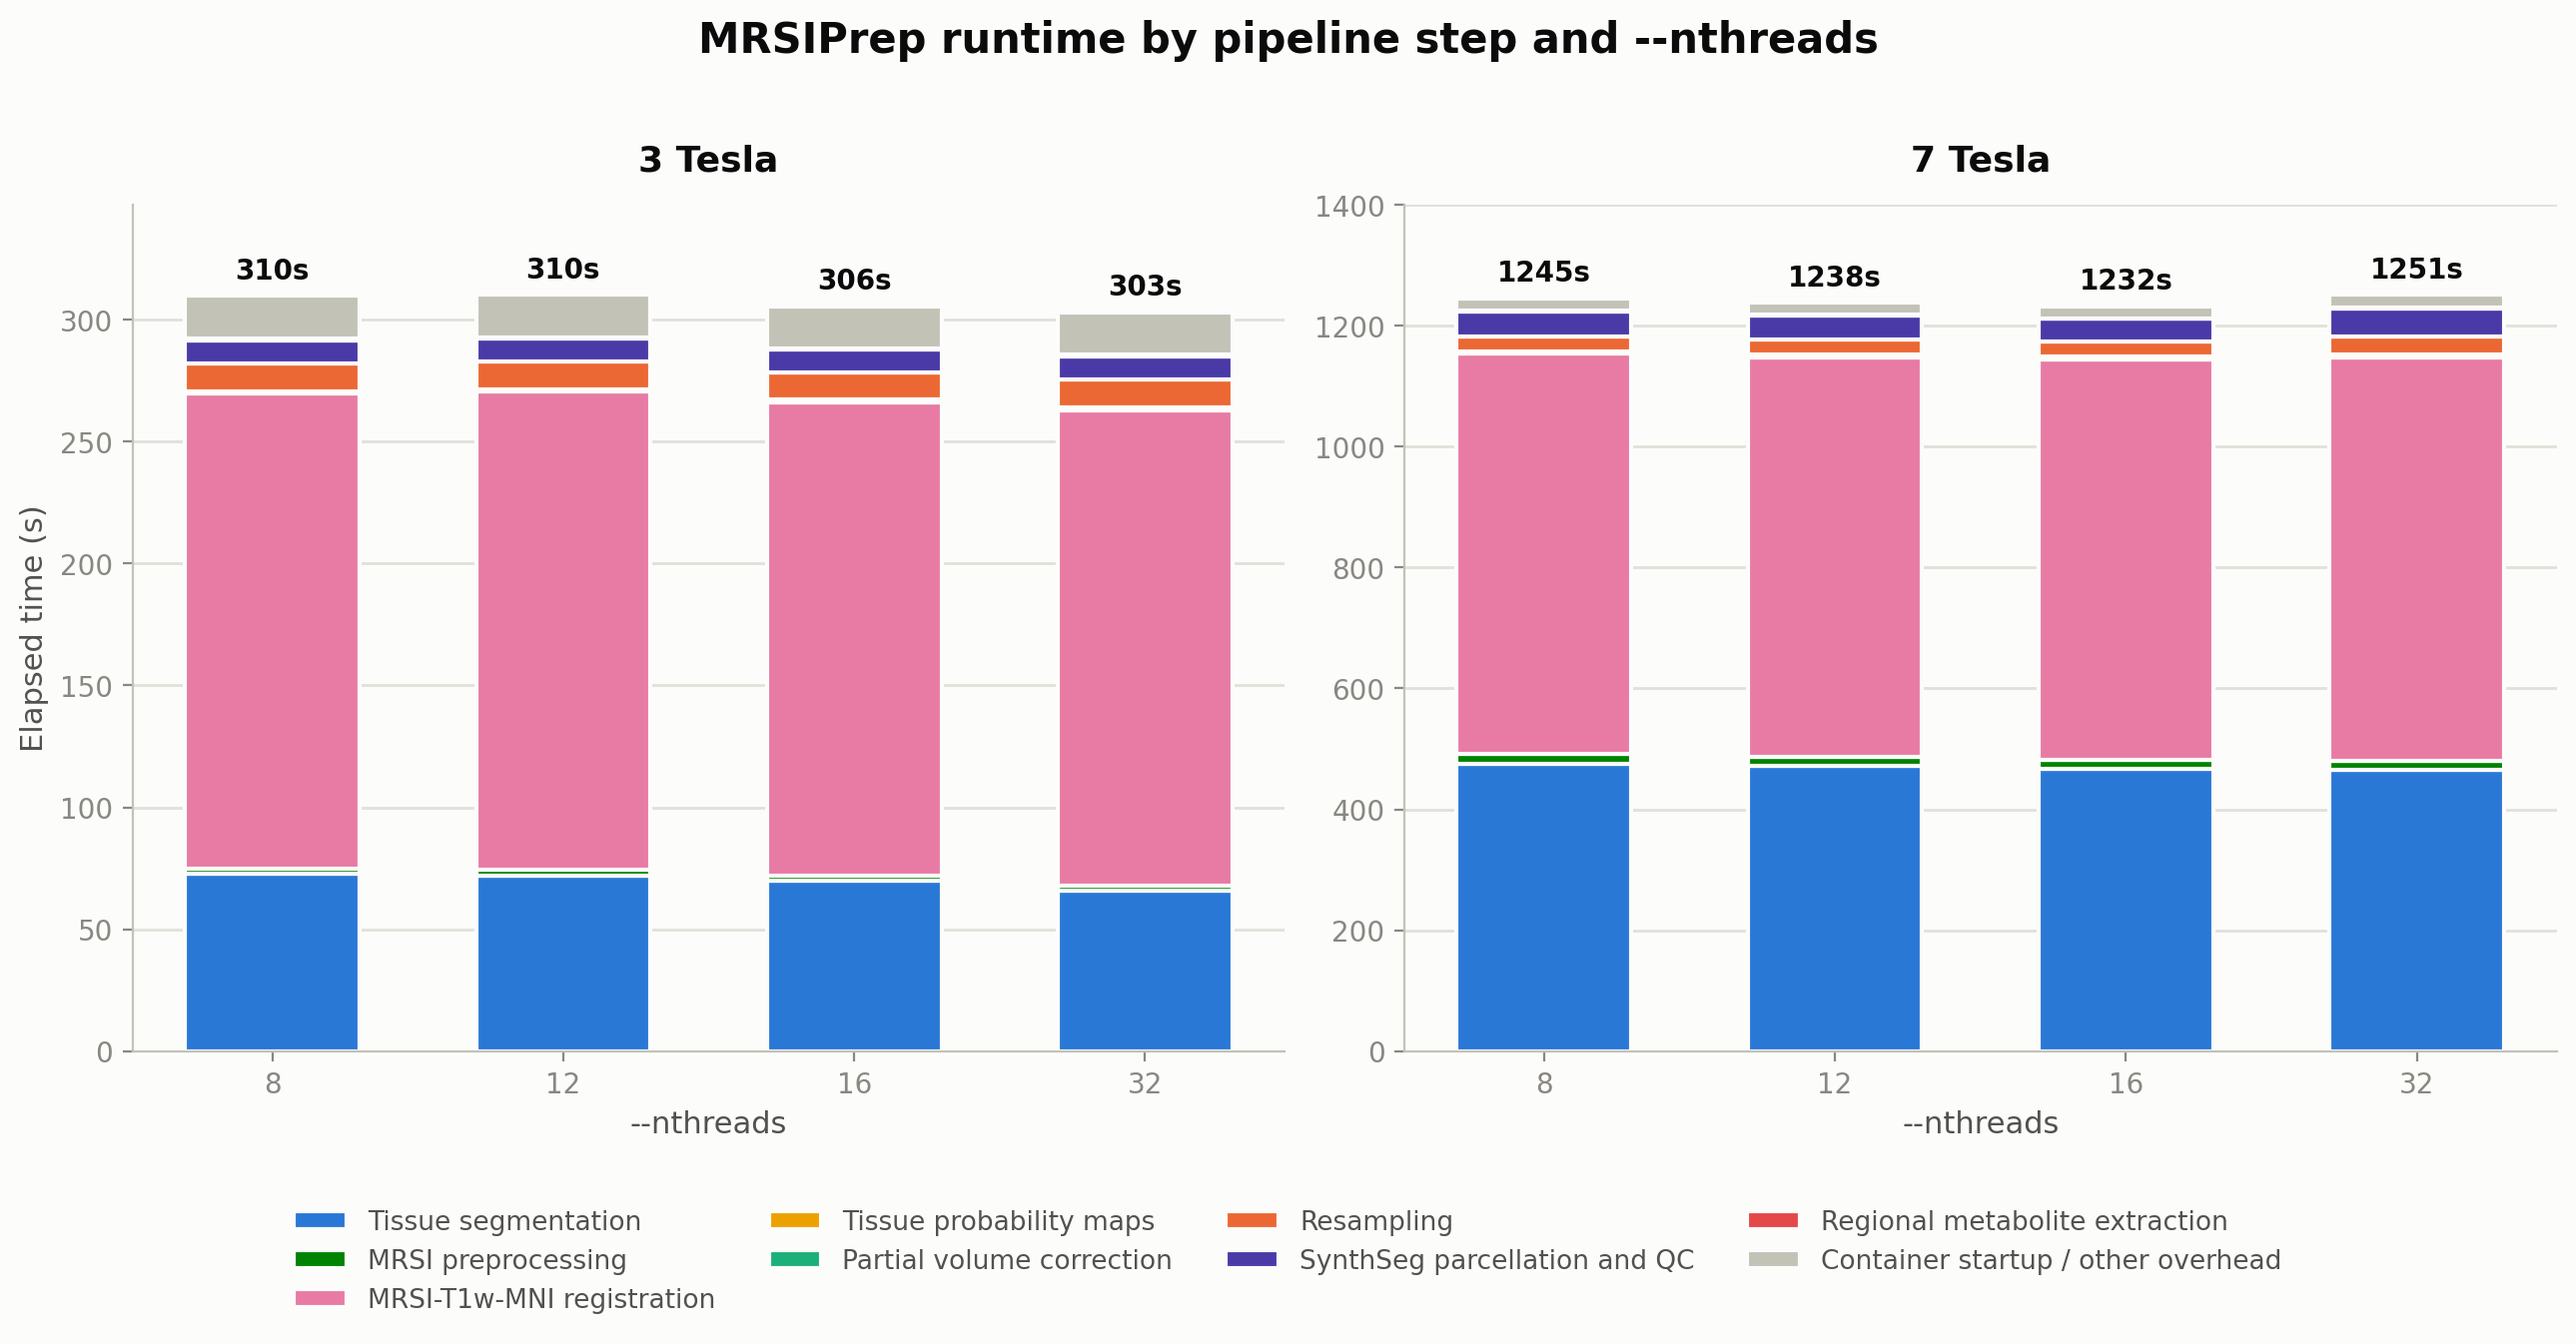
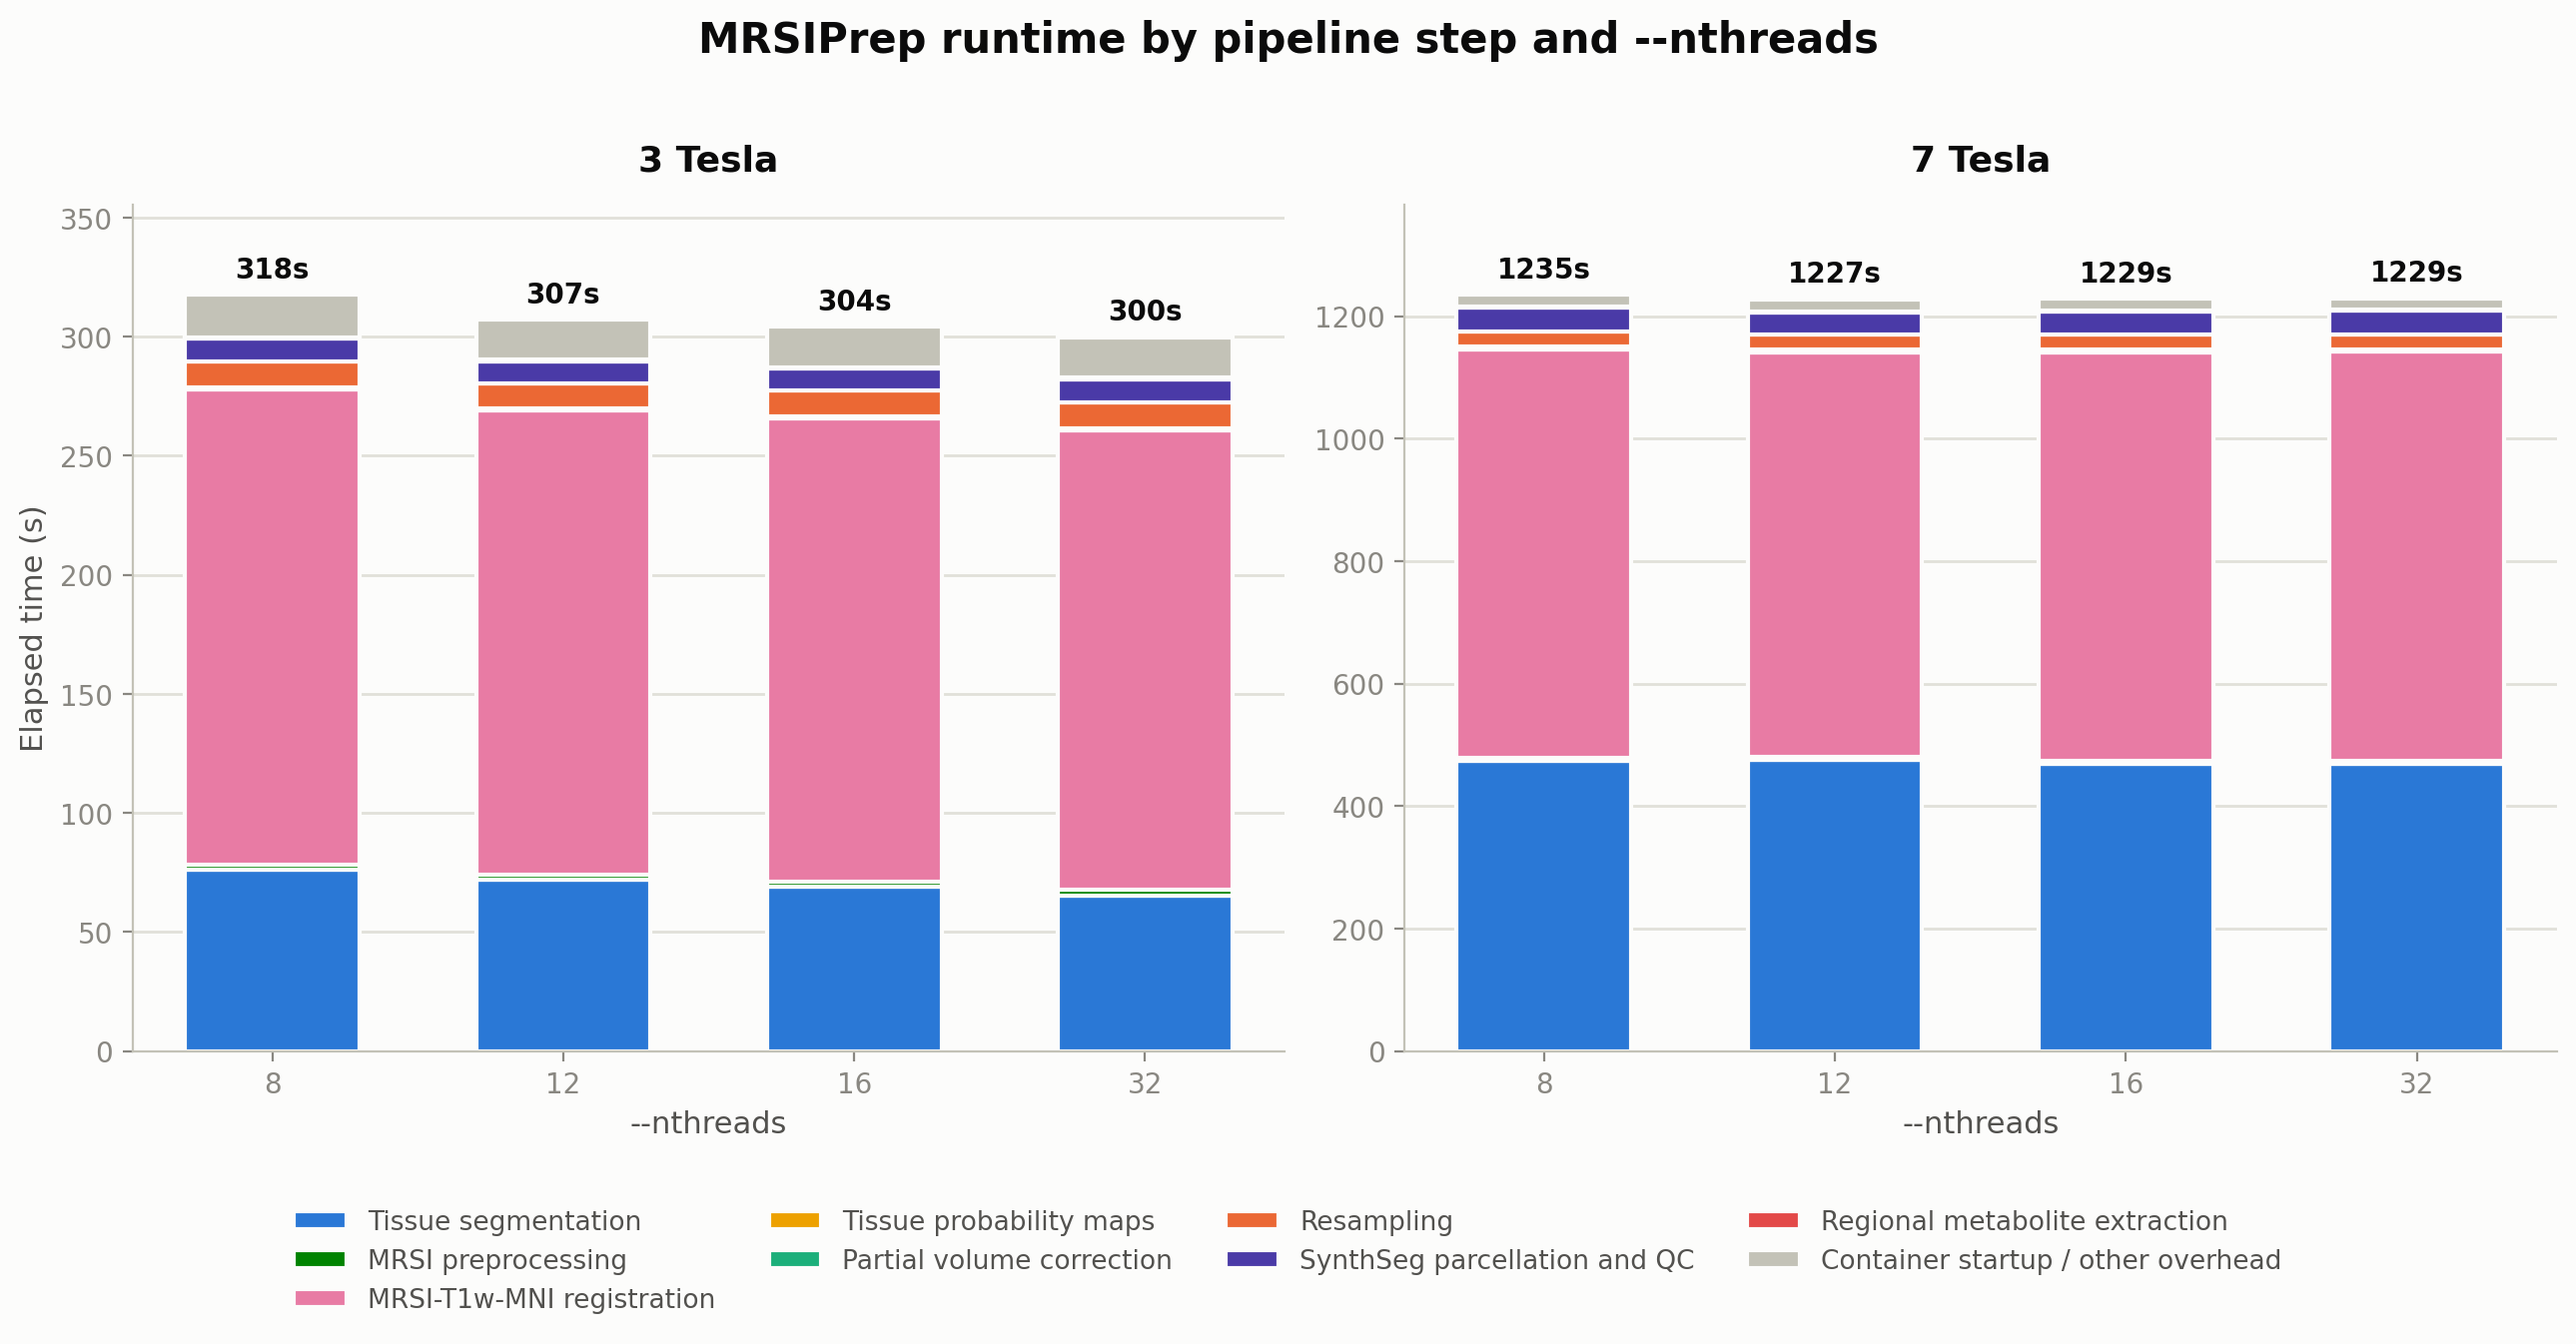
Rerun nthreads scaling benchmark sequentially, in isolation
Prior run's numbers may have been affected by concurrent load on a
shared machine. Rerunning all 8 configurations one at a time confirms
runtime is essentially flat across the 8-32 thread range at both field
strengths (3T ~6% spread, 7T under 1% spread). Bump to v1.5.8.

diff --git a/docs/benchmarks.md b/docs/benchmarks.md
@@ -80,7 +80,10 @@ Two single-subject `mrsiprep` runs, one per dataset, repeated at
 run, so `--nthreads` is the only varying parameter). Each run used a
 **fresh `--work-dir`** (no Nipype caching carried over between
 thread-count variants), so every number below reflects genuine
-full-pipeline computation, not a partially cached rerun.
+full-pipeline computation, not a partially cached rerun. All 8 runs (2
+subjects × 4 thread counts) were executed **strictly sequentially, one at
+a time**, with no other run or concurrent load on the machine, to rule
+out cross-run resource contention affecting the timings.
 
 - **3 Tesla subject** — a real MRSI acquisition with an MP2RAGE anatomical.
 - **7 Tesla subject** — a real MRSI acquisition with an MP2RAGE
@@ -116,9 +119,9 @@ which aren't wrapped in a named, timed pipeline step.
 
 ## Interpretation
 
-* **Runtime is nearly unchanged from 8 to 32 threads** for both subjects, with variations of only ~2%. ANTs registration and SynthSeg show little scaling beyond ~8 threads, so for batch processing it is generally better to use ~8–12 threads per subject and increase `--nproc` rather than allocate more threads to each subject.
+* **Runtime is essentially flat from 8 to 32 threads** for both subjects when each run is isolated from other load: 3T ranges 300–318s (~6% spread) and 7T ranges 1227–1235s (under 1% spread), with no consistent downward trend past 8 threads. ANTs registration (the largest single segment at both field strengths) and SynthSeg tissue segmentation show effectively no benefit from more than ~8 threads, so for batch processing it is generally better to use ~8 threads per subject and increase `--nproc` (running more subjects in parallel) rather than allocate more threads to each individual subject.
 
-* **The 7T subject takes about 4× longer than the 3T subject** (~20.5 vs. ~5.1 minutes). This is mainly due to the 7T T1w image having ~7.2× more voxels, which increases registration and segmentation costs. The MRSI grid has only ~2.1× more usable voxels, making anatomical—not MRSI—resolution the main runtime driver.
+* **The 7T subject takes about 4× longer than the 3T subject** (~20.5 vs. ~5.1 minutes). This is mainly due to the 7T T1w image having ~7.2× more voxels, which increases registration and segmentation costs. The MRSI grid has only ~2.1× more usable voxels, making anatomical — not MRSI — resolution the main runtime driver. Tissue segmentation (`mri_synthseg`) and MRSI-T1w-MNI registration (ANTs rigid+affine+SyN) together account for the large majority of total runtime at both field strengths.
 
 ## Registration Frameworks
 

diff --git a/docs/index.md b/docs/index.md
@@ -3,7 +3,7 @@
 *MRSIPrep* is a preprocessing and derivative-generation pipeline for already
 quantified whole-brain MRSI maps, run as a BIDS App via Docker.
 
-![version](https://img.shields.io/badge/version-v1.5.7-blue)
+![version](https://img.shields.io/badge/version-v1.5.8-blue)
 [![e2e mni-norm](https://img.shields.io/github/actions/workflow/status/MRSI-Psychosis-UP/MRSIPrep/e2e-mni-norm.yml?label=e2e%20mni-norm&color=success)](https://github.com/MRSI-Psychosis-UP/MRSIPrep/actions/workflows/e2e-mni-norm.yml)
 [![e2e parc-con](https://img.shields.io/github/actions/workflow/status/MRSI-Psychosis-UP/MRSIPrep/e2e-parc-con.yml?label=e2e%20parc-con&color=success)](https://github.com/MRSI-Psychosis-UP/MRSIPrep/actions/workflows/e2e-parc-con.yml)
 [![docs](https://app.readthedocs.org/projects/mrsiprep/badge/?version=stable)](https://mrsiprep.readthedocs.io/en/stable/)

diff --git a/docs/changelog.md b/docs/changelog.md
@@ -2,6 +2,15 @@
 
 ## Unreleased
 
+- Reran the `--nthreads` scaling runtime benchmark (3T/7T, 8/12/16/32
+  threads) with all 8 runs executed strictly sequentially and in
+  isolation, to rule out cross-run resource contention affecting the
+  timings (a prior run showed slightly more thread-count variation, run
+  under less controlled conditions). Under isolation, runtime is
+  essentially flat across the whole thread range at both field strengths
+  (3T: 300-318s, ~6% spread; 7T: 1227-1235s, under 1% spread), confirming
+  more than ~8 threads per subject gives negligible benefit. See
+  `docs/benchmarks.md`.
 - Added a transform-type table to the Registration Frameworks benchmark,
   documenting exactly what runs at the MRSI→T1w and T1w→MNI stages for
   each of the three compared configurations (ANTs rigid+affine+SyN vs.

diff --git a/README.md b/README.md
@@ -2,7 +2,7 @@
 
 
 
-![version](https://img.shields.io/badge/version-v1.5.7-blue)
+![version](https://img.shields.io/badge/version-v1.5.8-blue)
 [![e2e mni-norm](https://img.shields.io/github/actions/workflow/status/MRSI-Psychosis-UP/MRSIPrep/e2e-mni-norm.yml?label=e2e%20mni-norm&color=success)](https://github.com/MRSI-Psychosis-UP/MRSIPrep/actions/workflows/e2e-mni-norm.yml)
 [![e2e parc-con](https://img.shields.io/github/actions/workflow/status/MRSI-Psychosis-UP/MRSIPrep/e2e-parc-con.yml?label=e2e%20parc-con&color=success)](https://github.com/MRSI-Psychosis-UP/MRSIPrep/actions/workflows/e2e-parc-con.yml)
 [![docs](https://app.readthedocs.org/projects/mrsiprep/badge/?version=stable)](https://mrsiprep.readthedocs.io/en/stable/)
